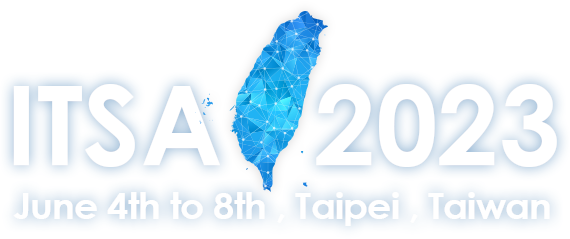
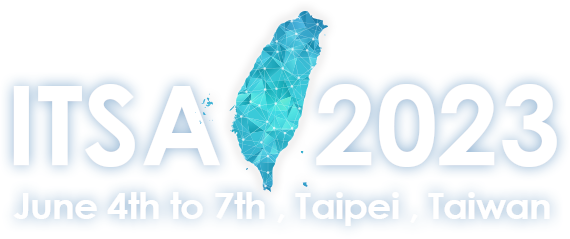
更新 hero-slogan、手機版頁籤按鈕css

Changed region(s): [[0.3877, 0.0586, 0.5667, 0.7908], [0.3579, 0.7908, 0.4175, 0.9079]]

diff --git a/css/style.css b/css/style.css
@@ -6208,6 +6208,14 @@ img {
   .tabSet.onMobile .tabContent {
     display: block;
   }
+  .tabSet.onMobile .tabContent .tabBtn {
+    width: 100%;
+    border: none;
+    margin: 1px;
+    border-radius: 0;
+    box-shadow: none;
+    background: #ddd;
+  }
   .tabSet .tabContent {
     display: none;
     position: relative;
@@ -9008,6 +9016,7 @@ a.moreType2:hover::after, a.moreType2:focus::after {
   .mp .list > ul > li > a time,
   .mp .list ol > li > a time {
     flex: 1 1 100%;
+    margin-top: 10px;
   }
 }
 .mp .typeThumbs {
@@ -9226,11 +9235,14 @@ a.moreType2:hover::after, a.moreType2:focus::after {
   background: url(../images/bg_mp_tabs.jpg) 50% top no-repeat;
   background-size: cover;
 }
-.mp .tabSet .tabItems button {
+.mp .tabSet .tabItems button,
+.mp .tabSet .tabContent button {
   height: 4em;
   font-weight: bold;
 }
-.mp .tabSet .tabItems button.active {
+.mp .tabSet .tabItems button.active,
+.mp .tabSet .tabContent button.active {
+  color: #fff;
   background: #222;
 }
 .mp .tabSet .tabContent {
@@ -9242,6 +9254,11 @@ a.moreType2:hover::after, a.moreType2:focus::after {
 }
 .mp .tabSet .tabContent .list a time {
   color: #fff;
+}
+@media screen and (max-width: 991px) {
+  .mp .tabSet .tabContent {
+    padding: 0;
+  }
 }
 .mp ul.iconLink {
   margin: 0;

diff --git a/sass/page/_mp.scss b/sass/page/_mp.scss
@@ -371,6 +371,7 @@ a.moreType2 {
             flex-wrap: wrap;
             time {
               flex: 1 1 100%;
+              margin-top: 10px;
             }
           }
         }
@@ -650,17 +651,18 @@ a.moreType2 {
     background-size: cover;
   }
   .tabSet {
-    .tabItems button {
+    .tabItems button,
+    .tabContent button{
       height: 4em;
       font-weight: bold;
       &.active {
+        color: #fff;
         background: #222;
       }
     }
     .tabContent {
       box-shadow: none;
       padding: 1em 0;
-
       .list {
         a {
           color: #fff;
@@ -672,6 +674,9 @@ a.moreType2 {
           //   background: pink;
           // }
         }
+      }
+      @include screen('tablet') {
+        padding: 0;
       }
     }
   }

diff --git a/sass/module/_tabs.scss b/sass/module/_tabs.scss
@@ -42,6 +42,15 @@
     }
     .tabContent {
       display: block;
+
+      .tabBtn{
+        width: 100%;
+        border: none;
+        margin: 1px;
+        border-radius: 0;
+        box-shadow: none;
+        background: #ddd;
+      }
     }
   }
   .tabContent {
